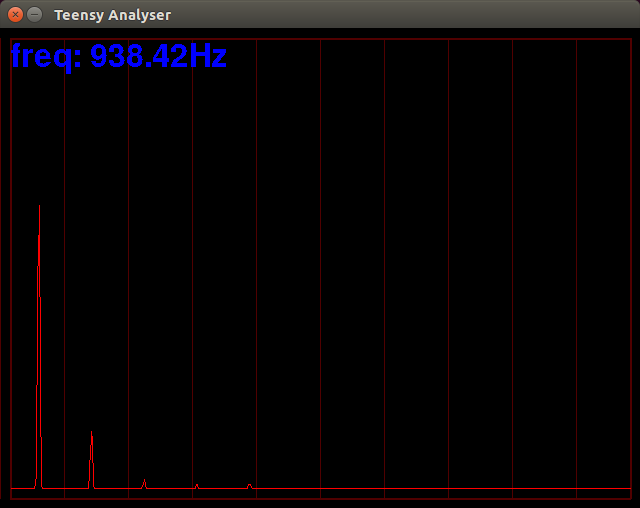
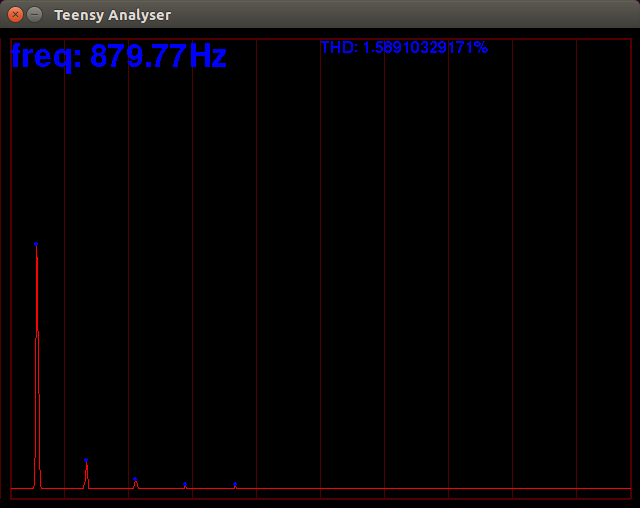
peak detect

diff --git a/test.py b/test.py
@@ -1,6 +1,8 @@
 import pygame, sys
 from pygame.locals import *
 import serial
+import numpy as np
+from scipy.signal import argrelextrema
 
 ser = serial.Serial(
     port='/dev/ttyACM0',
@@ -33,13 +35,12 @@ class Axes(object):
     def __init__(self, surface):
         self.surface = surface
         
-        self.fontinstance = pygame.font.Font('freesansbold.ttf', 32)
-        
+    def settext(self, text, x, y, size):
+        fontinstance = pygame.font.Font('freesansbold.ttf', size)
 
-    def settext(self, text):
-        renderinstance = self.fontinstance.render(text, False, Colors.blue)
+        renderinstance = fontinstance.render(text, False, Colors.blue)
         rectinstance = renderinstance.get_rect()
-        rectinstance.topleft=(10,10)
+        rectinstance.topleft=(x, y)
         self.surface.blit(renderinstance, rectinstance)
 
     def draw(self):
@@ -66,6 +67,8 @@ class Main(object):
 
         self.axes = Axes(self.Surface)
 
+        self.fourier = np.zeros(512, dtype=np.float)
+
     def loop(self):
         self.Surface.fill(Colors.black)
         self.axes.draw()
@@ -88,7 +91,6 @@ class Main(object):
                 vals = msgstr.split(':')
                 #self.Bassbar.set(float(vals[0]))
                 preval =0
-
                 for i, val in enumerate(vals):
                     if (i==0):
                         #freq
@@ -98,13 +100,15 @@ class Main(object):
                             freq=-1
 
                         #print "frequency: {0}Hz\n".format(freq)
-                        self.axes.settext("freq: {0}Hz".format(freq))
+                        self.axes.settext("freq: {0}Hz".format(freq), 10, 10, 32)
 
 
                     elif (i<512):                   
                     #print val
                         try:
                             y = int(float(val)*480)
+                            self.fourier[i] = float(val)
+
                             pygame.draw.line(   self.Surface, 
                                                 Colors.red, 
                                                 (int(10+Constants.xs*i), 460-preval), 
@@ -112,7 +116,29 @@ class Main(object):
                             preval = y
                         except:
                             pass
+                #http://stackoverflow.com/questions/4624970/finding-local-maxima-minima-with-numpy-in-a-1d-numpy-array
+                extrema = argrelextrema(self.fourier, np.greater)
+                
+                ea=extrema[0]
+                peaks = self.fourier[ea]
+                harm = 0.0
+                fund = 0.0
+                for i in range(len(peaks)):
+                     pygame.draw.circle(self.Surface, Colors.blue, (int(10+Constants.xs*ea[i])+1, 460-int(480.0*peaks[i])), 2,0)    
+                     if i==0:
+                        fund = peaks[i]**2
+                     else:
+                        harm = harm + peaks[i]**2
+                
+                try:
+                    thd =  harm/(fund+harm)*100
+                except:
+                    thd = -1
+                self.axes.settext("THD: {0}%".format(thd), 320, 10, 16)
+
                 pygame.display.update()
+
+                
 
             for event in pygame.event.get():
                 if event.type == QUIT:
@@ -122,6 +148,11 @@ class Main(object):
                 if event.type == KEYDOWN:
                     if event.key == K_ESCAPE:
                         pygame.event.post(pygame.event.Event(QUIT))
+                    if event.key == K_d:
+                        ser.write('d')
+                    if event.key == K_i:
+                        ser.write('D')
+
 
             self.fps.tick(5)
 
